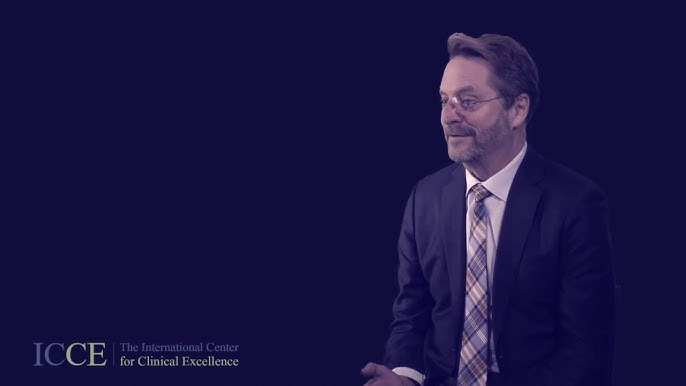
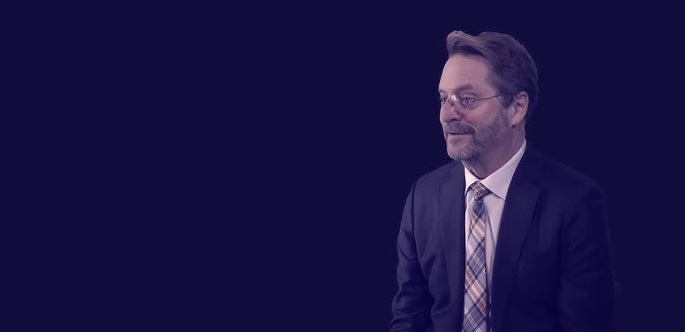
Improve hero section text positioning - constrain text to left side to avoid covering Scott's image

diff --git a/index.html b/index.html
@@ -34,10 +34,12 @@
 
     <section class="min-h-screen bg-cover bg-no-repeat bg-center relative" style="background-image: url('assets/images/scott-miller-hero-new.jpg'); background-position: center center;">
         <div class="absolute inset-0 bg-black bg-opacity-40"></div>
-        <div class="relative container max-w-4xl mx-auto pt-48 pb-24 px-4 sm:px-12">
-            <h2 class="text-4xl sm:text-5xl md:text-6xl pb-2 text-white font-heading tracking-heading leading-heading">Improving Therapy Outcomes Through Systematic Feedback</h2>
-            <div class="sm:-ml-4 p-4 bg-transparent text-white">
-                <p class="text-lg sm:text-xl font-body leading-relaxed">"The key to effective therapy lies in continuously monitoring what's working and what's not, from the client's perspective. Feedback Informed Treatment transforms therapeutic practice."</p>
+        <div class="relative container max-w-7xl mx-auto pt-24 pb-24 px-4 sm:px-12">
+            <div class="max-w-2xl">
+                <h2 class="text-4xl sm:text-5xl md:text-6xl pb-2 text-white font-heading tracking-heading leading-heading">Improving Therapy Outcomes Through Systematic Feedback</h2>
+                <div class="p-4 bg-transparent text-white">
+                    <p class="text-lg sm:text-xl font-body leading-relaxed">"The key to effective therapy lies in continuously monitoring what's working and what's not, from the client's perspective. Feedback Informed Treatment transforms therapeutic practice."</p>
+                </div>
             </div>
             <div class="mt-8">
                 <a class="inline-block mt-8 px-6 py-3 font-heading text-lg tracking-wider rounded-sm text-orange-100 bg-orange-500 hover:bg-orange-700 transition-colors" href="#training">
